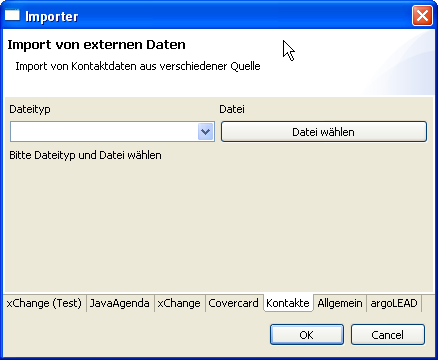
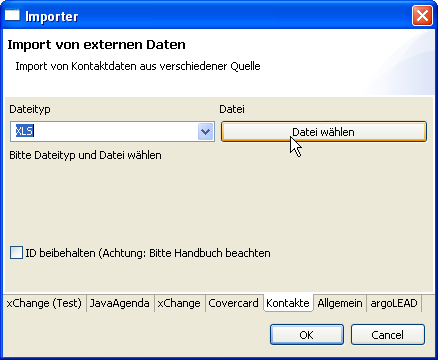
[svn] universalimporter

diff --git a/dokumentation/konzepte.tex b/dokumentation/konzepte.tex
@@ -8,7 +8,7 @@
 % * Contributors:
 % *    G. Weirich
 % *
-% *  $Id: konzepte.tex 3521 2008-01-13 11:08:32Z rgw_ch $
+% *  $Id: konzepte.tex 3530 2008-01-14 19:57:04Z rgw_ch $
 % *******************************************************************************
 % !Mode:: "TeX:UTF-8" (encoding info for WinEdt)
 
@@ -157,30 +157,39 @@ Im Fall von xls muss die Datei eine Tabelle 0 mit folgenden Spalten enthalten:
 \hline
 \hline  ID & eine (im Prinzip beliebige, innerhalb der Datei aber eindeutige) Identifikation\\
 \hline IstPerson & 1 wenn der Eintrag eine Person bezeichnet, 0 andernfalls (Organisation etc.)\\
+\hline Titel & Ein Titel, Anredem Bezugsperson etc.\\
 \hline Bezeichnung1 & Bei Personen der Name\\
 \hline Bezeichnung2 & Bei Personen der Vorname\\
+\hline Zusatz & \\
 \hline Geburtsdatum & Im Format dd.mm.yyyy oder yyyy-mm-dd\\
 \hline Geschlecht & m oder f oder w oder ein Wort, das mit m oder f oder w anfängt.\\
-\hline E-Mail & die E-Mal-Adresse\\
+\hline E-Mail & die E-Mail-Adresse\\
 \hline Website & Eine WWW-Adresse\\
 \hline Telefon 1 & Primäres Telefon\\
 \hline Telefon 2 & weitere Nummer\\
+\hline Mobil & Mobiltelefon\\
 \hline Strasse & Strasse und Hausnr.\\
-\hline Plz & PLZ entweder als 1224 oder CH-12344 geschrieben\\
+\hline Plz & PLZ entweder als 1224 oder CH-1224 geschrieben\\
 \hline Ort & \\
 \hline Postadresse & Adresse, wie sie auf Adressetiketten erscheinen soll. Zeilensprünge als $\backslash$n\\
 \hline EAN & Die EAN als EAN13\\
 \hline
 \end{tabular}
 
-\medskip 
+\medskip
 
 Die erste Zeile der Tabelle muss die Spaltentitel genau in obiger Schreibweise enthalten, damit das Format erkannt werden kann.
 Jede der genannten Spalten muss vorhanden sein, darf aber leer sein. Die Datei muss als iso-8859-1 codiert sein (Das ist Standard unter Windows; bei der MAc-Version von Excel müsste die Exportcodierung ev. entsprechend angepasst werden).
 
 \medskip
 
-Wenn Sie den Dateityp festgelegt haben, Klicken Sie auf den Button 'Datei wählen' und suchen die entsprechende Importdatei auf. Klicken Sie dann OK, um den Import zu starten.
+Wenn Sie den Dateityp festgelegt haben, Klicken Sie auf den Button 'Datei wählen' und suchen die entsprechende Importdatei auf. Setzen Sie ein Häkchen bei 'ID beibehalten' \textbf{nur dann}, wenn \begin{itemize}
+\item Jeder Datensatz im Feld ID eine ID hat
+\item Diese ID garantiert eindeutig ist, also mit keinem anderen Kontakt in Elexis kollidieren kann
+\item Sie diese ID unbedingt beibehalten wollen
+\end{itemize}
+Wenn Sie das Häkchen nicht setzen, was in den meisten Fällen empfohlen ist, dann wird Elexis beim Import für jeden Kontakt eine eigene eindeutige ID erstellen (genauso, als würde man den Kontakt manuell neu anlegen).\\
+Klicken Sie dann OK, um den Import zu starten.
 
  \section{Mehrere Instanzen gleichzeitig}
  \index{gleichzeitig}
